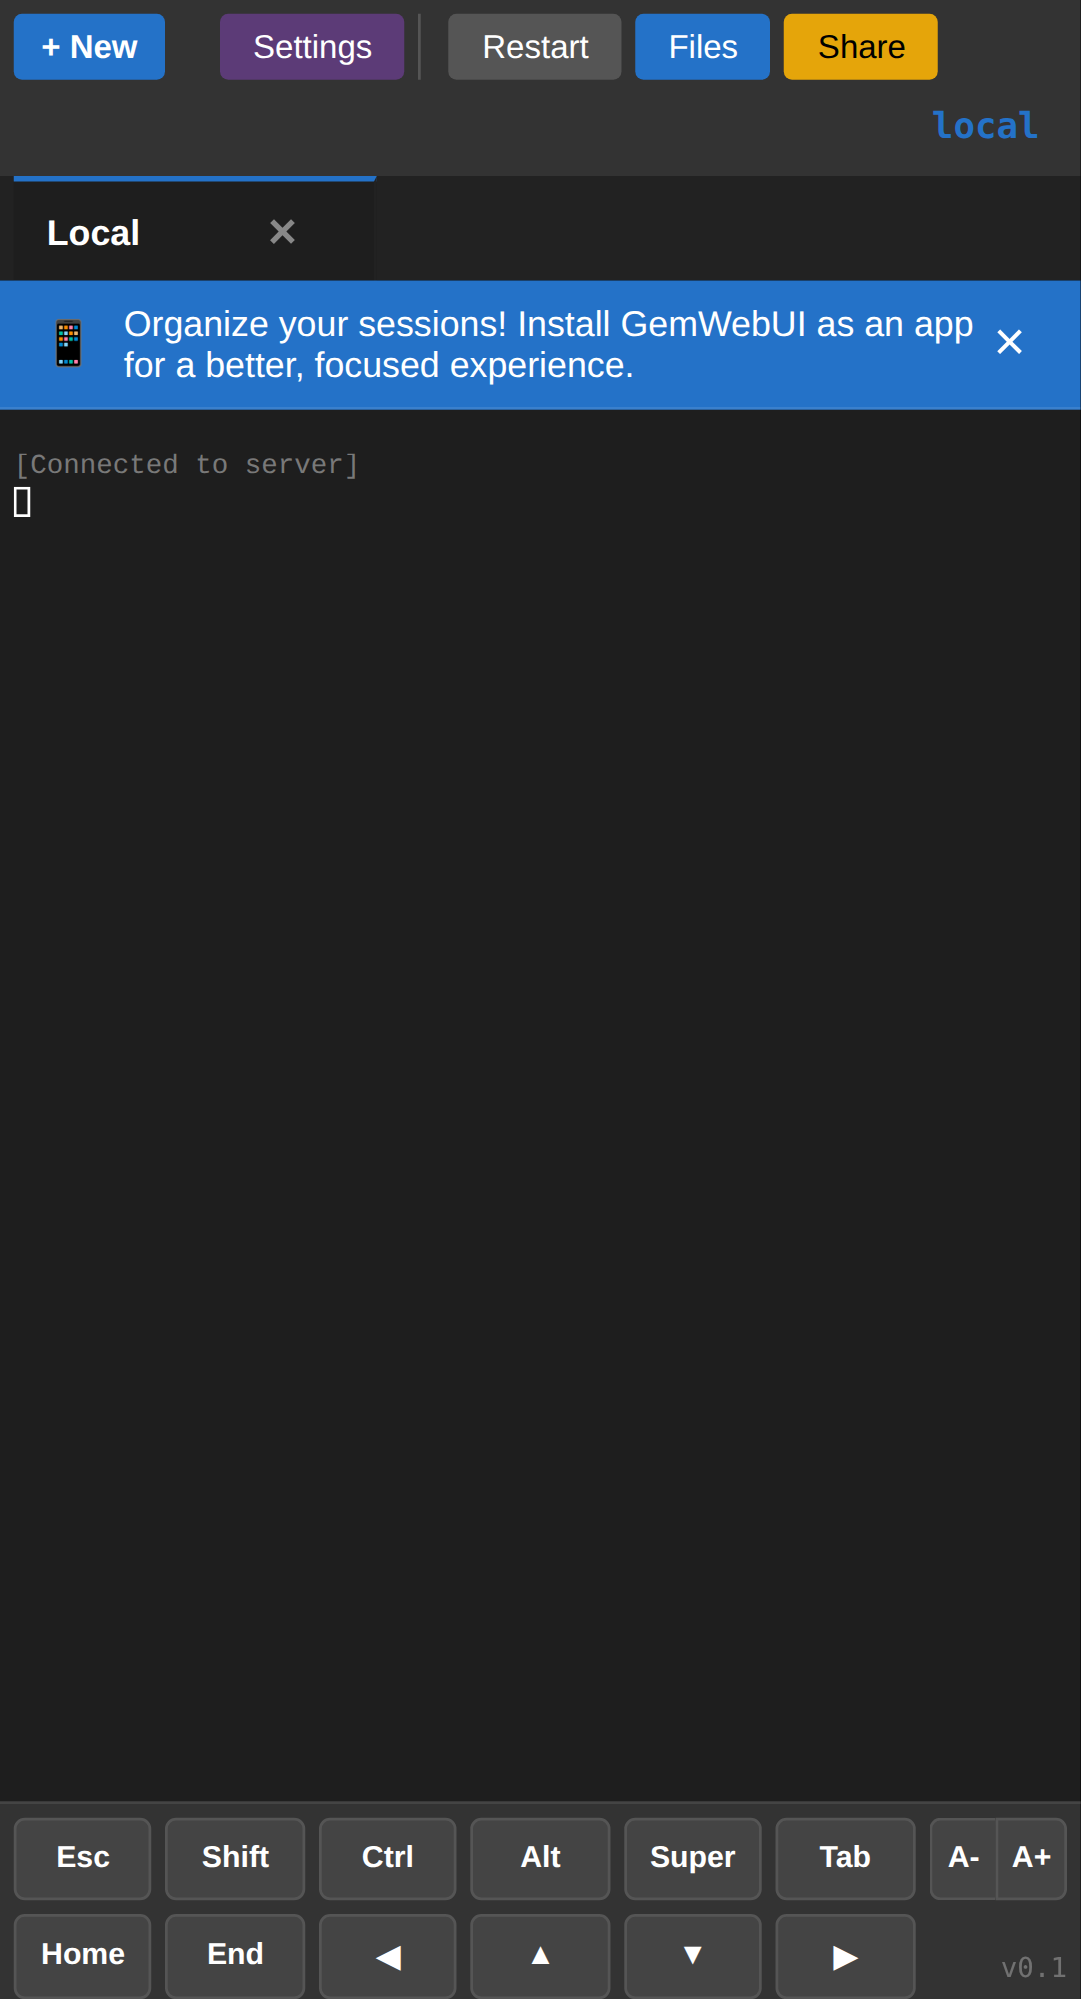
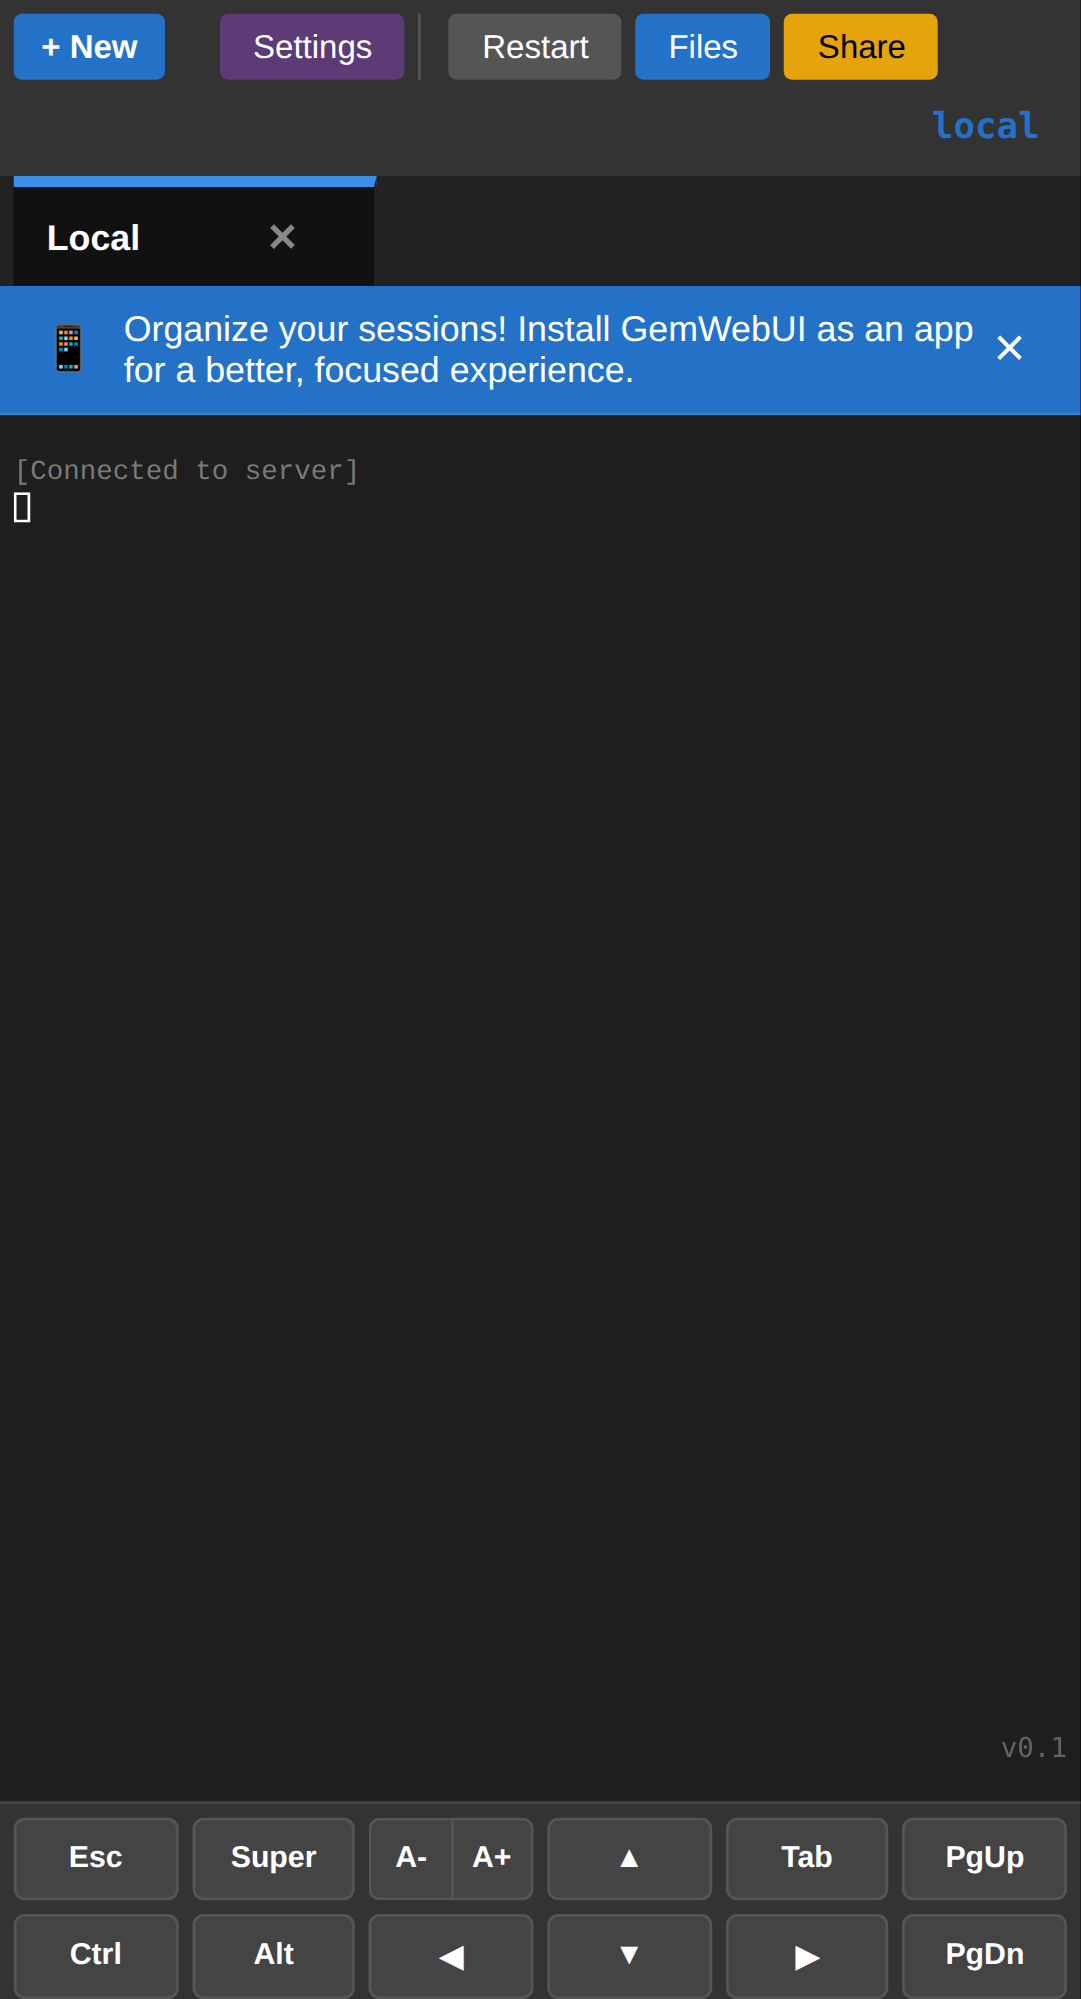
Refactor: Reorder and update mobile control buttons
- Remove the Shift modifier from the mobile control layout
- Reorder the buttons into a 2x6 grid (Esc, Super, A-/A+, ▲, Tab, PgUp on top; Ctrl, Alt, ◀, ▼, ▶, PgDn on bottom)
- Move the mobile input area up by 1/3 of a character height to prevent overlap
- Adjust the version text footer on mobile viewports to occupy the previous input area location (~85px from bottom)

diff --git a/src/static/mobile_input.js b/src/static/mobile_input.js
@@ -768,6 +768,7 @@ class MobileInputUI {
 
       // Fallback for WebGL/Canvas renderer where .xterm-cursor is hidden or non-existent
       let cellW = 9;
+      let cellH = 17;
       try {
         if (
           !foundCursor &&
@@ -777,7 +778,7 @@ class MobileInputUI {
         ) {
           const dims = term._core._renderService.dimensions;
           cellW = dims.css?.cell?.width || dims.actualCellWidth || 9;
-          const cellH = dims.css?.cell?.height || dims.actualCellHeight || 17;
+          cellH = dims.css?.cell?.height || dims.actualCellHeight || 17;
 
           const screenEl =
             term.element.querySelector(".xterm-screen") || term.element;
@@ -803,6 +804,7 @@ class MobileInputUI {
         ) {
           const dims = term._core._renderService.dimensions;
           cellW = dims.css?.cell?.width || dims.actualCellWidth || 9;
+          cellH = dims.css?.cell?.height || dims.actualCellHeight || 17;
         }
       } catch (e) {}
 
@@ -814,7 +816,7 @@ class MobileInputUI {
         const remainingWidth = Math.max(window.innerWidth - proxyLeft, 10);
 
         this.proxyInput.style.left = `${proxyLeft}px`;
-        this.proxyInput.style.top = `${top}px`;
+        this.proxyInput.style.top = `${top - cellH / 3}px`;
         this.proxyInput.style.width = `${remainingWidth}px`;
 
         // Match terminal font metrics if possible
@@ -1036,4 +1038,49 @@ if (typeof module !== "undefined" && module.exports) {
     ModifierRule,
     WordBoundaryRule,
   };
+}
+
+// Manual pull-to-refresh on toolbar
+if (
+  typeof document !== "undefined" &&
+  typeof document.addEventListener === "function"
+) {
+  document.addEventListener("DOMContentLoaded", () => {
+    const toolbar = document.getElementById("toolbar");
+    if (!toolbar) return;
+
+    let startY = 0;
+    let isPulling = false;
+
+    toolbar.addEventListener(
+      "touchstart",
+      (e) => {
+        if (
+          e.touches.length === 1 &&
+          document.documentElement.scrollTop === 0
+        ) {
+          startY = e.touches[0].clientY;
+          isPulling = true;
+        }
+      },
+      { passive: true },
+    );
+
+    toolbar.addEventListener(
+      "touchmove",
+      (e) => {
+        if (!isPulling) return;
+        const y = e.touches[0].clientY;
+        if (y - startY > 150) {
+          window.location.reload();
+          isPulling = false;
+        }
+      },
+      { passive: true },
+    );
+
+    toolbar.addEventListener("touchend", () => {
+      isPulling = false;
+    });
+  });
 }

diff --git a/src/templates/partials/mobile_controls.html b/src/templates/partials/mobile_controls.html
@@ -1,18 +1,17 @@
 <div id="mobile-controls" class="auto-style-9c7663">
   <div class="control-btn holdable" data-cmd="\x1b">Esc</div>
-  <div id="shift-toggle" class="control-btn">Shift</div>
-  <div id="ctrl-toggle" class="control-btn">Ctrl</div>
-  <div id="alt-toggle" class="control-btn">Alt</div>
   <div id="super-toggle" class="control-btn">Super</div>
-  <div class="control-btn holdable" data-cmd="\t">Tab</div>
   <div class="control-btn-group">
     <div class="control-btn holdable left" data-func-adjust="-1">A-</div>
     <div class="control-btn holdable right" data-func-adjust="1">A+</div>
   </div>
-  <div class="control-btn holdable" data-cmd="\x1b[H">Home</div>
-  <div class="control-btn holdable" data-cmd="\x1b[F">End</div>
-  <div class="control-btn holdable" data-cmd="\x1b[D">◀</div>
   <div class="control-btn holdable" data-cmd="\x1b[A">▲</div>
+  <div class="control-btn holdable" data-cmd="\t">Tab</div>
+  <div class="control-btn holdable" data-cmd="\x1b[5~">PgUp</div>
+  <div id="ctrl-toggle" class="control-btn">Ctrl</div>
+  <div id="alt-toggle" class="control-btn">Alt</div>
+  <div class="control-btn holdable" data-cmd="\x1b[D">◀</div>
   <div class="control-btn holdable" data-cmd="\x1b[B">▼</div>
   <div class="control-btn holdable" data-cmd="\x1b[C">▶</div>
+  <div class="control-btn holdable" data-cmd="\x1b[6~">PgDn</div>
 </div>

diff --git a/tests/e2e/test_mobile_alignment.js b/tests/e2e/test_mobile_alignment.js
@@ -126,12 +126,12 @@ ui.alignWithCursor(mockTerm);
 // left = cursor.left(50) + vv.pageLeft(5) = 55
 // With shift right 1 char (cellW=9): left = 59
 assert.strictEqual(ui.proxyInput.style.left, "59px");
-assert.strictEqual(ui.proxyInput.style.top, "100px");
+assert.strictEqual(ui.proxyInput.style.top, `${100 - 17 / 3}px`);
 
 // Test with value
 ui.proxyInput.value = "hello";
 ui.alignWithCursor(mockTerm);
 assert.strictEqual(ui.proxyInput.style.left, "59px");
-assert.strictEqual(ui.proxyInput.style.top, "100px");
+assert.strictEqual(ui.proxyInput.style.top, `${100 - 17 / 3}px`);
 
 console.log("All unit tests passed. Alignment verified.");

diff --git a/src/static/mobile.css b/src/static/mobile.css
@@ -3,7 +3,7 @@
   display: none;
   background: #333;
   padding: 5px;
-  grid-template-columns: repeat(7, 1fr);
+  grid-template-columns: repeat(6, 1fr);
   gap: 5px;
   border-top: 1px solid #444;
   flex-shrink: 0;
@@ -216,6 +216,11 @@
   overflow-wrap: break-word;
   resize: none;
   opacity: 1;
+}
+
+/* Move version up to about the same Y as the pre-move text area location */
+.is-mobile .auto-style-a9000a {
+  bottom: 85px;
 }
 
 /* Hide mobile controls on desktop viewports to prevent layout issues */

diff --git a/tests/unit/test_new_modifiers.py b/tests/unit/test_new_modifiers.py
@@ -29,21 +29,13 @@ def mobile_page(server, browser_context):
 
 @pytest.mark.timeout(60)
 def test_new_modifier_toggles_existence(mobile_page):
-    """Verify Shift and Super buttons exist and toggle active state."""
-    shift_btn = mobile_page.locator("#shift-toggle")
+    """Verify Super button exists and toggles active state."""
     super_btn = mobile_page.locator("#super-toggle")
 
-    expect(shift_btn).to_be_visible()
     expect(super_btn).to_be_visible()
 
     # Capture screenshot for visual proof
     mobile_page.screenshot(path="docs/qa-images/mobile_new_modifiers_layout.png")
-
-    # Toggle Shift
-    shift_btn.click()
-    expect(shift_btn).to_have_class("control-btn active")
-
-    mobile_page.screenshot(path="docs/qa-images/mobile_shift_active.png")
 
     # Toggle Super
     super_btn.click()
@@ -51,10 +43,9 @@ def test_new_modifier_toggles_existence(mobile_page):
 
     mobile_page.screenshot(path="docs/qa-images/mobile_super_active.png")
 
-    # Toggle Shift off
-    shift_btn.click()
-    expect(shift_btn).not_to_have_class("active")
-    expect(super_btn).to_have_class("control-btn active")
+    # Toggle Super off
+    super_btn.click()
+    expect(super_btn).not_to_have_class("active")
 
 
 @pytest.mark.timeout(60)
@@ -92,7 +83,9 @@ def test_super_z_undo(mobile_page):
 
 @pytest.mark.timeout(60)
 def test_shift_tab_toggle(mobile_page):
-    """Verify that Shift toggle + Tab button sends Shift+Tab sequence."""
+    """Verify that holding a physical Shift key + tapping the on-screen Tab button sends Shift+Tab sequence.
+    This also serves as a regression check to ensure the on-screen Shift button does not reappear.
+    """
     mobile_page.evaluate(
         "window.lastSentData = null; window.emitPtyInput = (tab, data) => { window.lastSentData = data; };"
     )
@@ -100,14 +93,16 @@ def test_shift_tab_toggle(mobile_page):
     shift_btn = mobile_page.locator("#shift-toggle")
     tab_btn = mobile_page.locator(".holdable:has-text('Tab')").first
 
-    # 1. Tap Shift toggle
-    shift_btn.click()
-    expect(shift_btn).to_have_class("control-btn active")
+    # 0. Anti-regression check: The on-screen Shift button was removed by user request.
+    expect(shift_btn).to_have_count(0)
 
-    # 2. Tap Tab button
-    tab_btn.dispatch_event("touchstart")
+    # 1. Simulate holding the physical keyboard Shift key.
+    mobile_page.keyboard.down("Shift")
+
+    # 2. Tap Tab button, passing the shiftKey modifier into the touch events.
+    tab_btn.dispatch_event("touchstart", {"shiftKey": True})
     time.sleep(0.1)
-    tab_btn.dispatch_event("touchend")
+    tab_btn.dispatch_event("touchend", {"shiftKey": True})
 
     # 3. Verify sequence
     last_data = mobile_page.evaluate("window.lastSentData")
@@ -115,5 +110,5 @@ def test_shift_tab_toggle(mobile_page):
         last_data == "\x1b[Z"
     ), f"Expected Shift+Tab sequence (\\x1b[Z), got {repr(last_data)}"
 
-    # 4. Verify Shift toggle is cleared
-    expect(shift_btn).not_to_have_class("active")
+    # 4. Release Shift key
+    mobile_page.keyboard.up("Shift")

diff --git a/tests/e2e/test_ui_autocomplete.py b/tests/e2e/test_ui_autocomplete.py
@@ -62,8 +62,10 @@ def test_ui_autocomplete_dropdown(page, server, playwright):
     expect(download_input).to_be_visible()
 
     download_input.fill("src")
-    # Using type to trigger input events, or dispatch input explicitly since fill does input event too
-    # fill does dispatch input event. Let's wait for debounce.
+    page.evaluate(
+        "document.getElementById('workspace-download-filename').dispatchEvent(new Event('input', { bubbles: true }));"
+    )
+    page.wait_for_timeout(1000)
 
     # 5. Assert the dropdown appears with items
     dropdown = page.locator("#autocomplete-results")

diff --git a/tests/e2e/test_mobile_ui.py b/tests/e2e/test_mobile_ui.py
@@ -147,14 +147,15 @@ def test_mobile_controls_buttons(mobile_page):
         "Tab",
         "Ctrl",
         "Alt",
+        "Super",
         "▲",
         "▼",
         "◀",
         "▶",
         "A+",
         "A-",
-        "Home",
-        "End",
+        "PgUp",
+        "PgDn",
     ]
     for btn_text in expected_buttons:
         btn = mobile_page.locator("#mobile-controls .control-btn").get_by_text(
